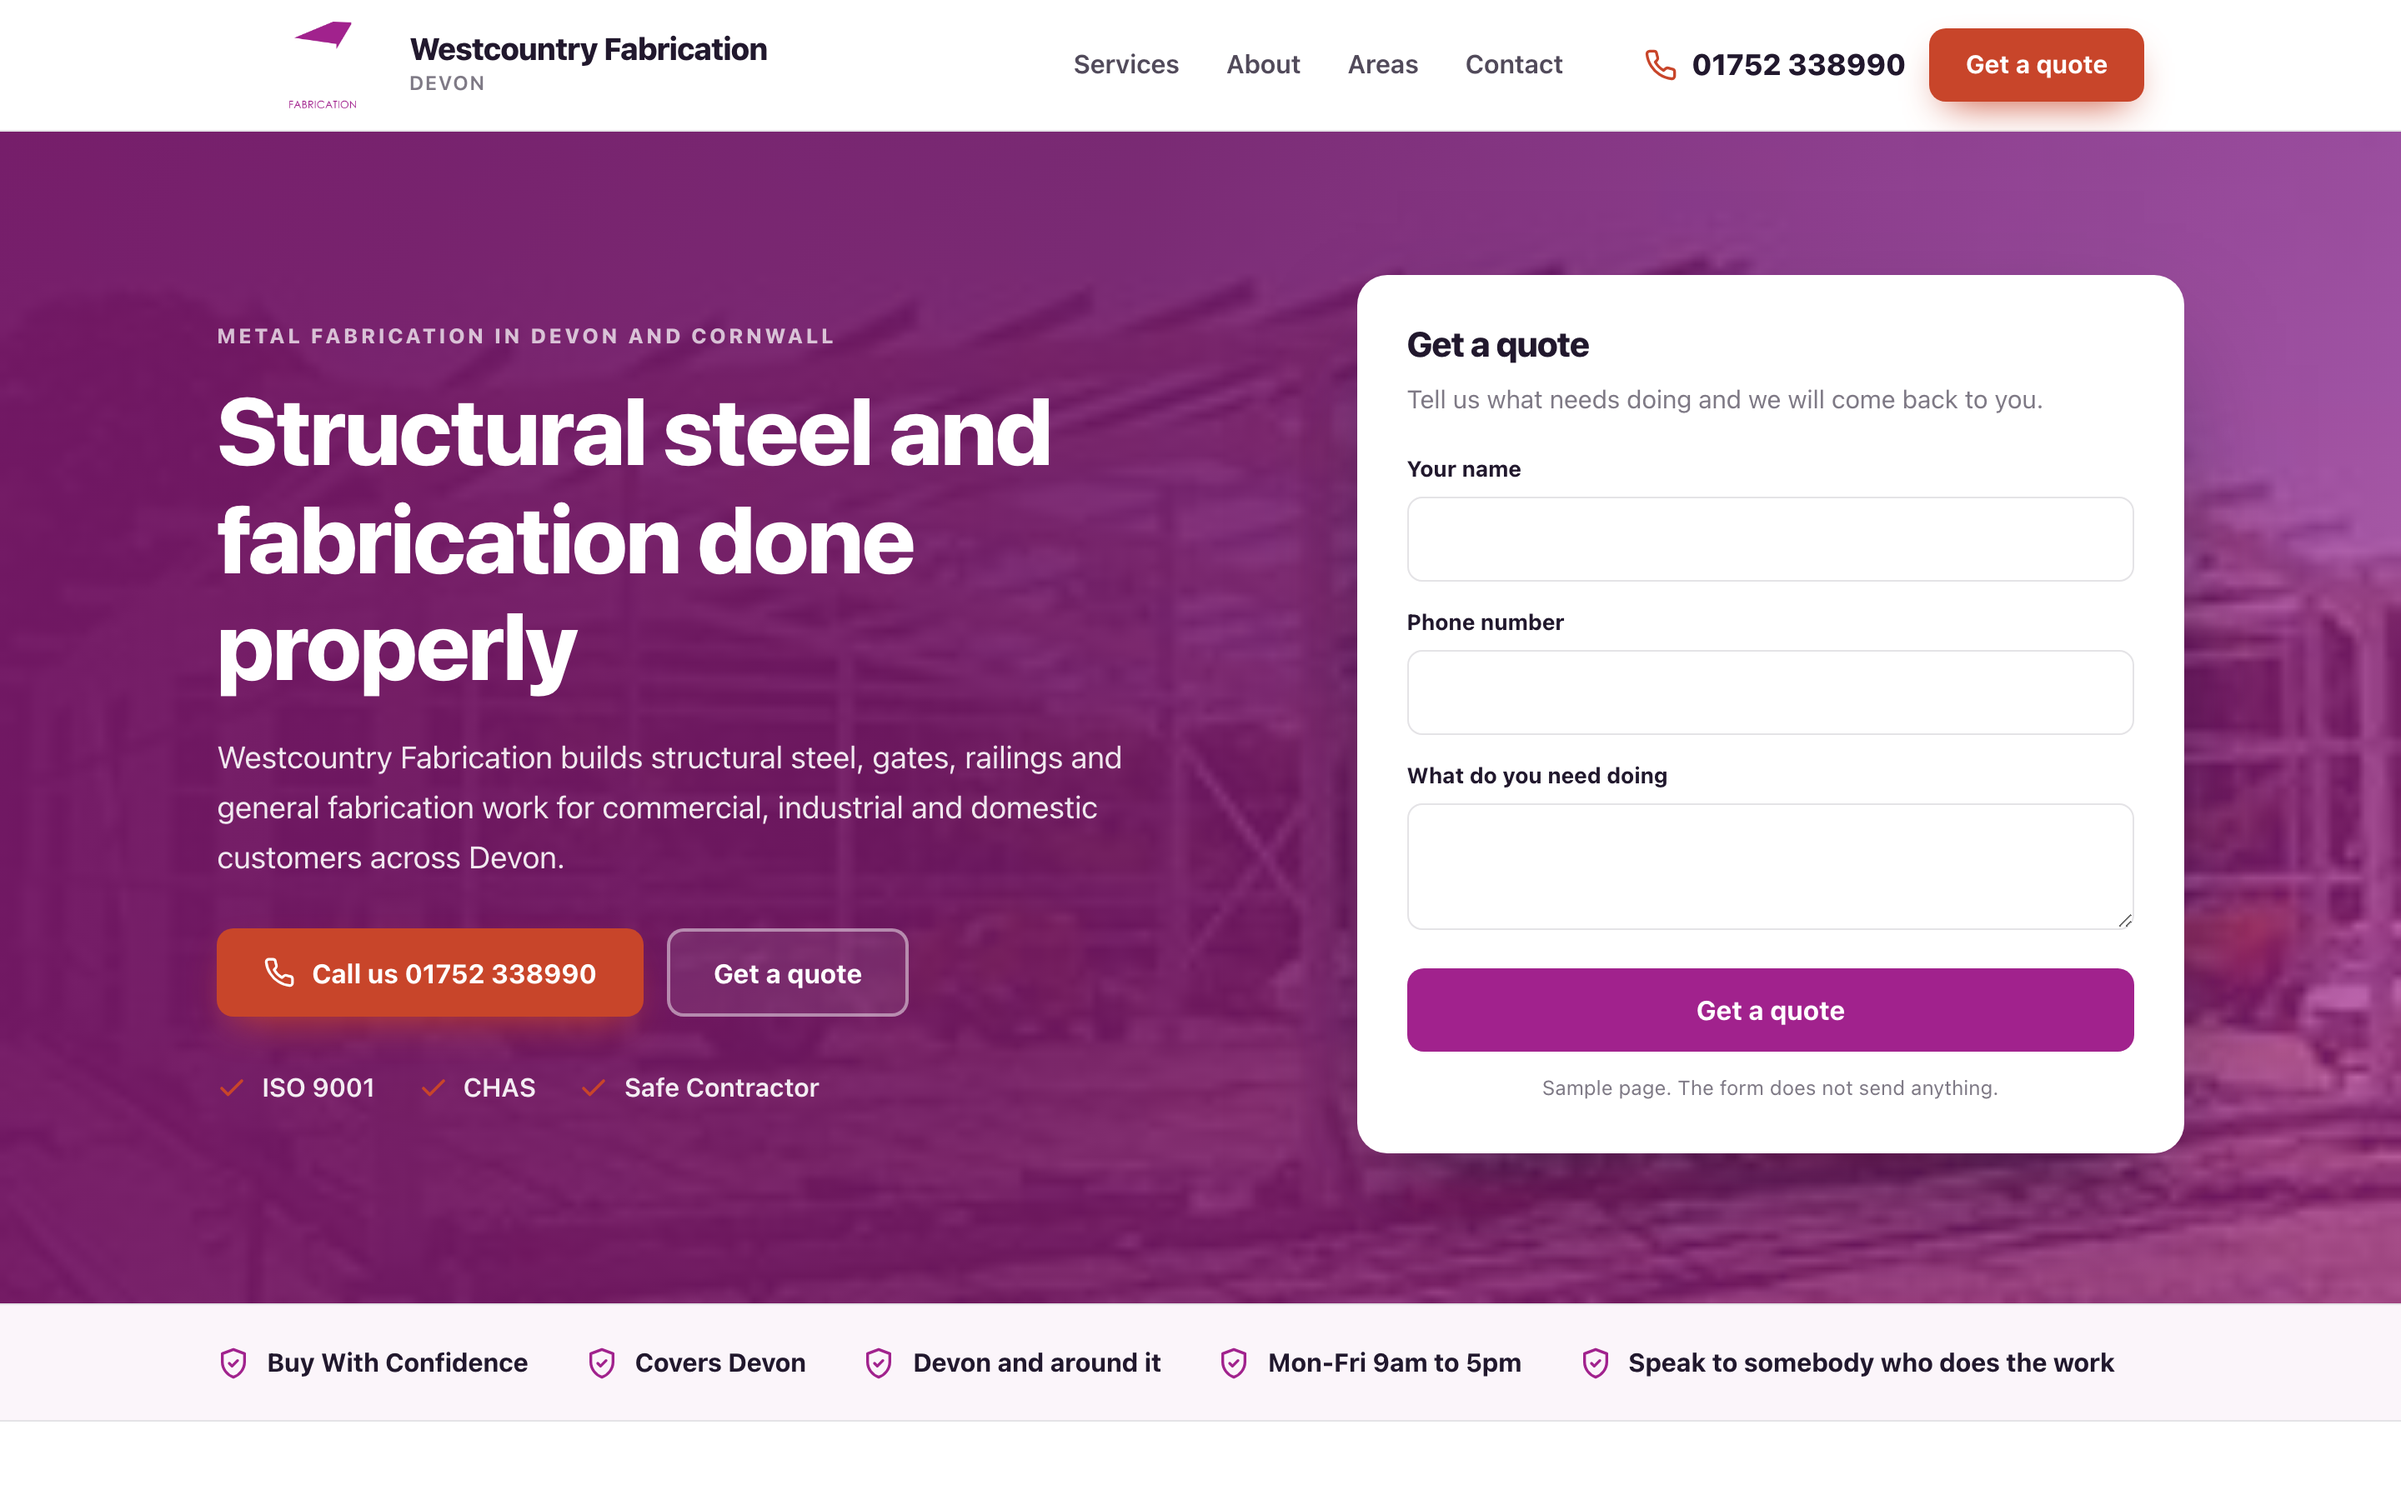
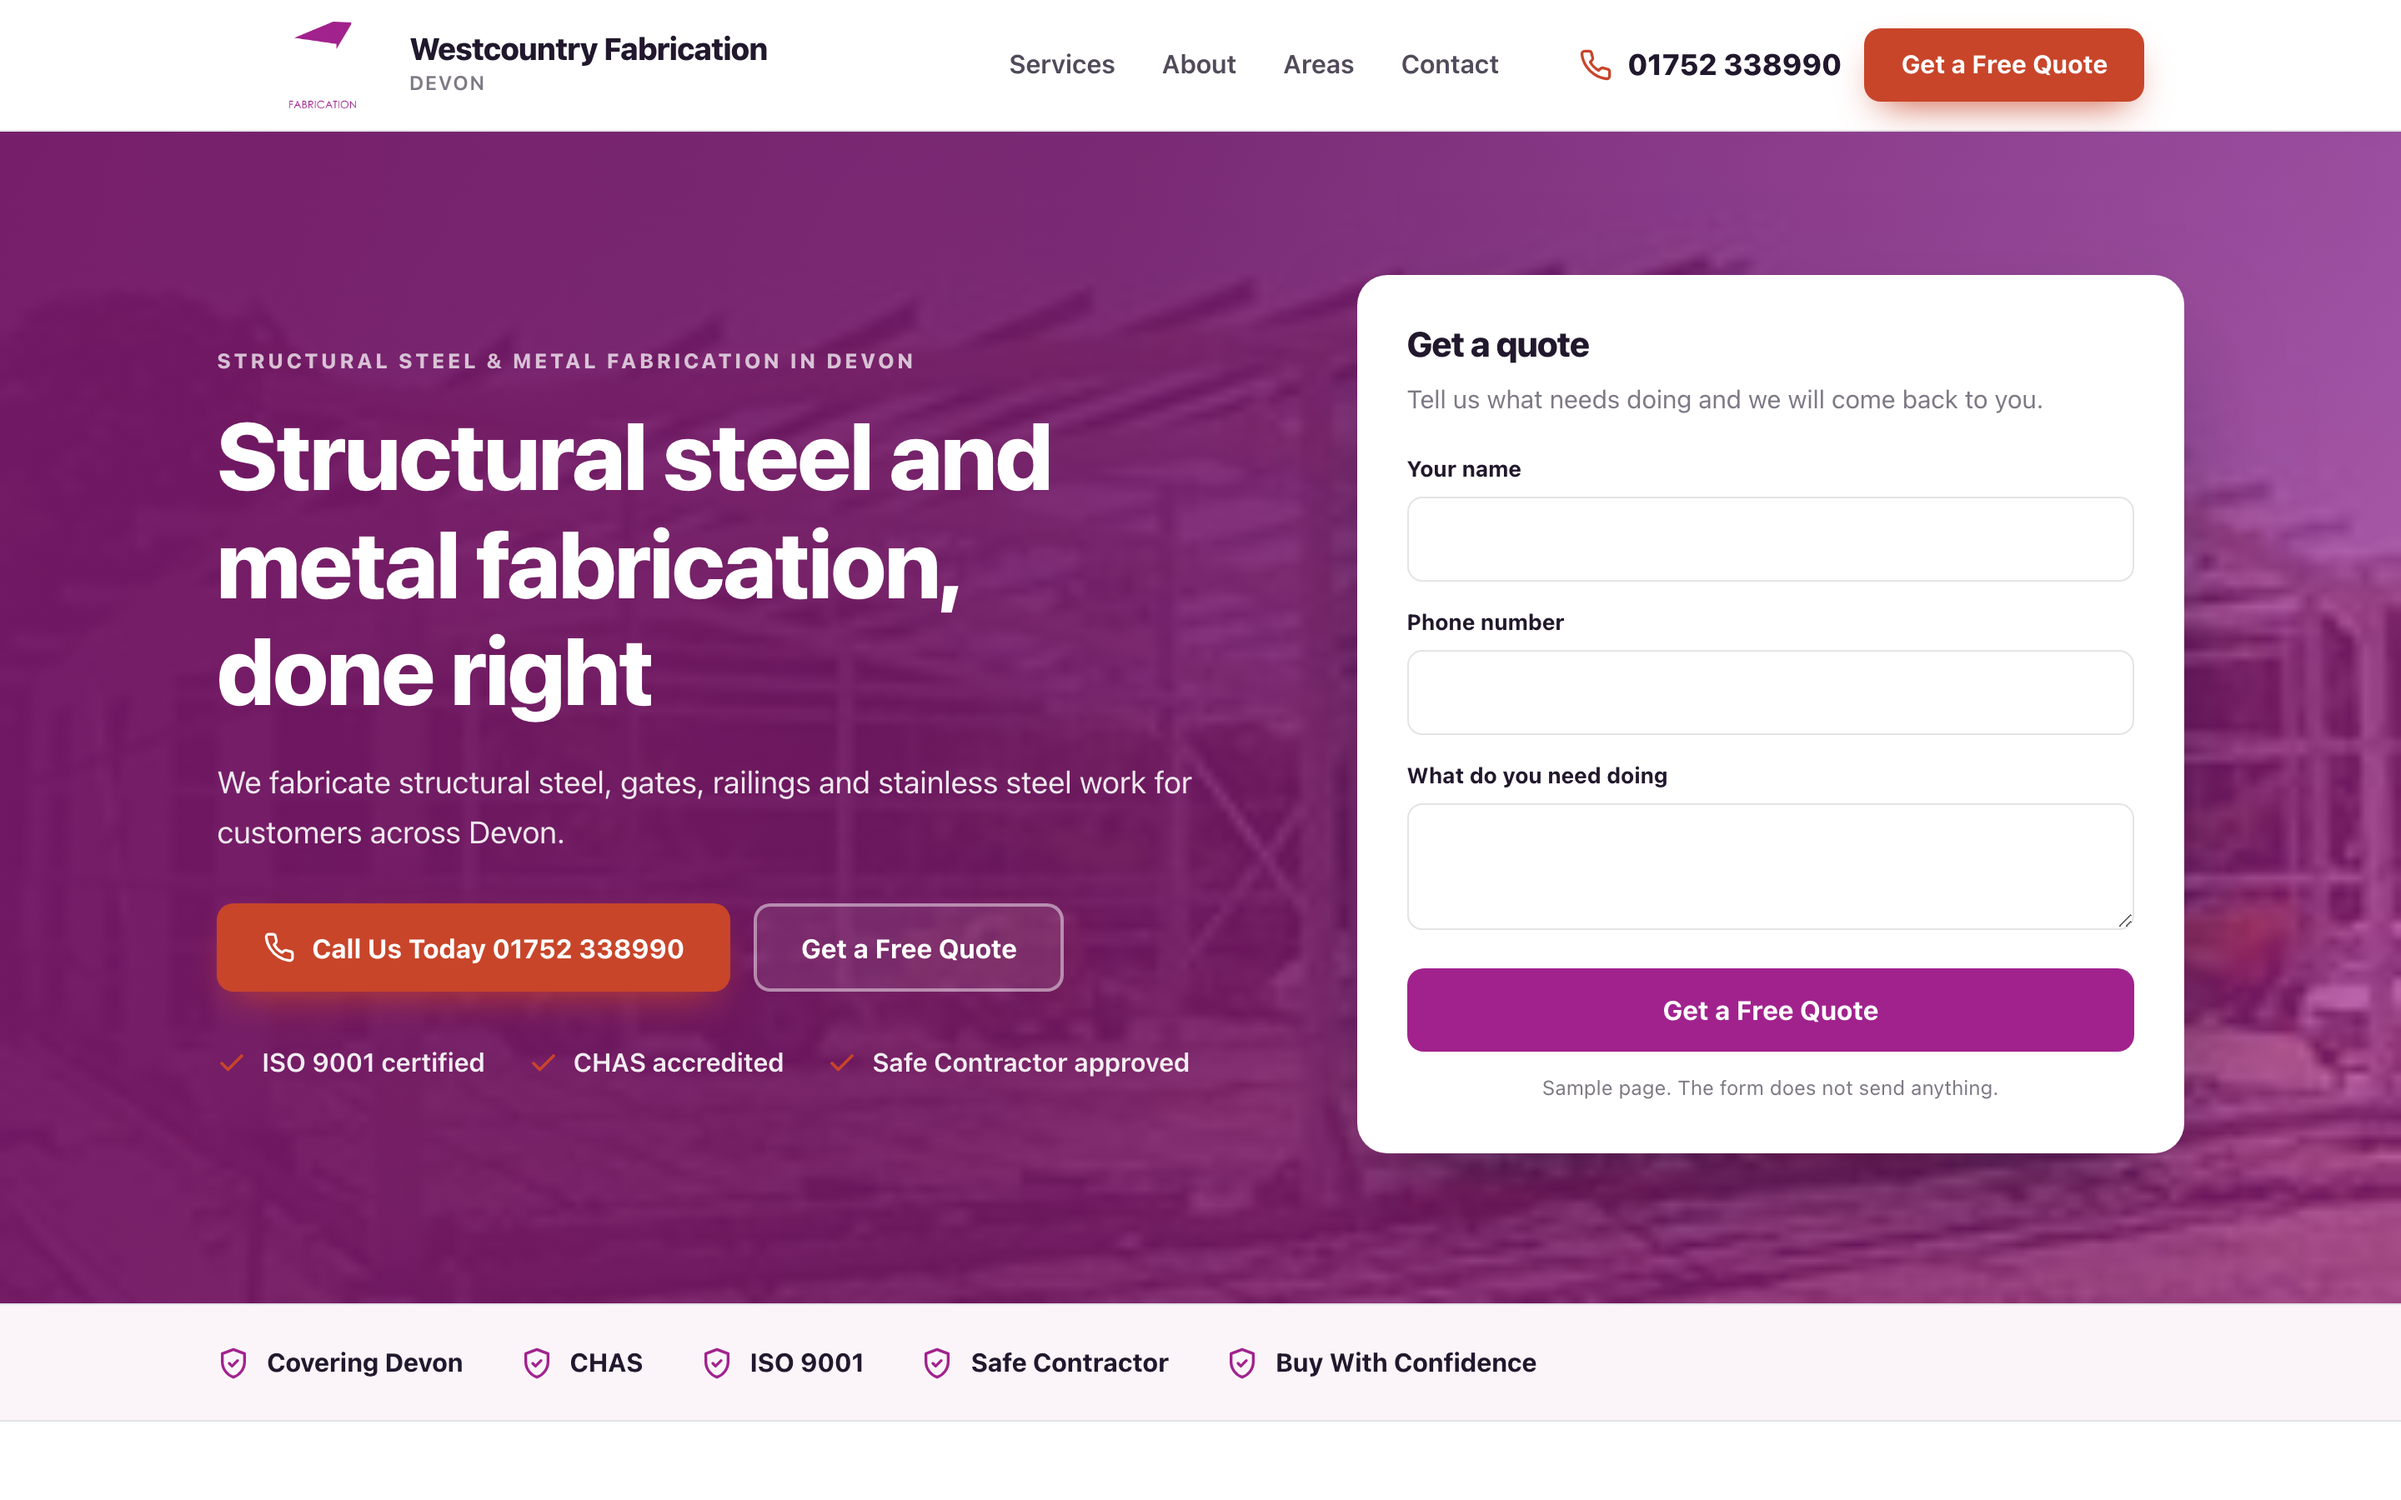
Sample homepage for Westcountry Fabrication

diff --git a/docs/9847171073/index.html b/docs/9847171073/index.html
@@ -6,11 +6,11 @@
 <meta name="robots" content="noindex,nofollow">
 <meta name="aso-build" content="">
 <title>Westcountry Fabrication sample homepage</title>
-<meta name="description" content="Westcountry Fabrication builds structural steel, gates, railings and general fabrication work for commercial, industrial and domestic customers across Devon.">
+<meta name="description" content="We fabricate structural steel, gates, railings and stainless steel work for customers across Devon.">
 <link rel="canonical" href="https://markygff.github.io/aso-mockups/9847171073/">
 <meta property="og:type" content="website">
 <meta property="og:title" content="Westcountry Fabrication sample homepage">
-<meta property="og:description" content="Westcountry Fabrication builds structural steel, gates, railings and general fabrication work for commercial, industrial and domestic customers across Devon.">
+<meta property="og:description" content="We fabricate structural steel, gates, railings and stainless steel work for customers across Devon.">
 <meta property="og:url" content="https://markygff.github.io/aso-mockups/9847171073/">
 <meta property="og:image" content="img/t08.jpg"><style>
 :root{
@@ -130,7 +130,7 @@ p{margin:0}
     </nav>
     <div class="header-cta">
       <a class="tel" href="tel:+441752338990"><svg viewBox="0 0 24 24" fill="none" stroke="currentColor" stroke-width="2" stroke-linecap="round" stroke-linejoin="round" aria-hidden="true"><path d="M22 16.9v3a2 2 0 0 1-2.2 2 19.8 19.8 0 0 1-8.6-3.1 19.5 19.5 0 0 1-6-6 19.8 19.8 0 0 1-3.1-8.7A2 2 0 0 1 4.1 2h3a2 2 0 0 1 2 1.7c.1 1 .4 1.9.7 2.8a2 2 0 0 1-.5 2.1L8.1 9.9a16 16 0 0 0 6 6l1.3-1.2a2 2 0 0 1 2.1-.5c.9.3 1.8.6 2.8.7a2 2 0 0 1 1.7 2z"/></svg><span>01752 338990</span></a>
-      <span class="btn btn-accent">Get a quote</span>
+      <span class="btn btn-accent">Get a Free Quote</span>
     </div>
   </div>
 </header>
@@ -139,15 +139,15 @@ p{margin:0}
   <div class="hero-bg"><img src="img/t08.jpg" alt="Westcountry Fabrication at work" width="1600" height="900"></div>
   <div class="wrap hero-in">
     <div>
-      <p class="eyebrow">Metal fabrication in Devon and Cornwall</p>
-      <h1>Structural steel and fabrication done properly</h1>
-      <p class="hero-sub">Westcountry Fabrication builds structural steel, gates, railings and general fabrication work for commercial, industrial and domestic customers across Devon.</p>
+      <p class="eyebrow">Structural steel &amp; metal fabrication in Devon</p>
+      <h1>Structural steel and metal fabrication, done right</h1>
+      <p class="hero-sub">We fabricate structural steel, gates, railings and stainless steel work for customers across Devon.</p>
       <div class="hero-actions">
-        <span class="btn btn-accent"><svg viewBox="0 0 24 24" fill="none" stroke="currentColor" stroke-width="2" stroke-linecap="round" stroke-linejoin="round" aria-hidden="true"><path d="M22 16.9v3a2 2 0 0 1-2.2 2 19.8 19.8 0 0 1-8.6-3.1 19.5 19.5 0 0 1-6-6 19.8 19.8 0 0 1-3.1-8.7A2 2 0 0 1 4.1 2h3a2 2 0 0 1 2 1.7c.1 1 .4 1.9.7 2.8a2 2 0 0 1-.5 2.1L8.1 9.9a16 16 0 0 0 6 6l1.3-1.2a2 2 0 0 1 2.1-.5c.9.3 1.8.6 2.8.7a2 2 0 0 1 1.7 2z"/></svg>Call us 01752 338990</span>
-        <span class="btn btn-ghost">Get a quote</span>
+        <span class="btn btn-accent"><svg viewBox="0 0 24 24" fill="none" stroke="currentColor" stroke-width="2" stroke-linecap="round" stroke-linejoin="round" aria-hidden="true"><path d="M22 16.9v3a2 2 0 0 1-2.2 2 19.8 19.8 0 0 1-8.6-3.1 19.5 19.5 0 0 1-6-6 19.8 19.8 0 0 1-3.1-8.7A2 2 0 0 1 4.1 2h3a2 2 0 0 1 2 1.7c.1 1 .4 1.9.7 2.8a2 2 0 0 1-.5 2.1L8.1 9.9a16 16 0 0 0 6 6l1.3-1.2a2 2 0 0 1 2.1-.5c.9.3 1.8.6 2.8.7a2 2 0 0 1 1.7 2z"/></svg>Call Us Today 01752 338990</span>
+        <span class="btn btn-ghost">Get a Free Quote</span>
       </div>
       <ul class="hero-bullets">
-<li><svg viewBox="0 0 24 24" fill="none" stroke="currentColor" stroke-width="2.4" stroke-linecap="round" stroke-linejoin="round" aria-hidden="true"><path d="M20 6 9 17l-5-5"/></svg><span>ISO 9001</span></li><li><svg viewBox="0 0 24 24" fill="none" stroke="currentColor" stroke-width="2.4" stroke-linecap="round" stroke-linejoin="round" aria-hidden="true"><path d="M20 6 9 17l-5-5"/></svg><span>CHAS</span></li><li><svg viewBox="0 0 24 24" fill="none" stroke="currentColor" stroke-width="2.4" stroke-linecap="round" stroke-linejoin="round" aria-hidden="true"><path d="M20 6 9 17l-5-5"/></svg><span>Safe Contractor</span></li>      </ul>
+<li><svg viewBox="0 0 24 24" fill="none" stroke="currentColor" stroke-width="2.4" stroke-linecap="round" stroke-linejoin="round" aria-hidden="true"><path d="M20 6 9 17l-5-5"/></svg><span>ISO 9001 certified</span></li><li><svg viewBox="0 0 24 24" fill="none" stroke="currentColor" stroke-width="2.4" stroke-linecap="round" stroke-linejoin="round" aria-hidden="true"><path d="M20 6 9 17l-5-5"/></svg><span>CHAS accredited</span></li><li><svg viewBox="0 0 24 24" fill="none" stroke="currentColor" stroke-width="2.4" stroke-linecap="round" stroke-linejoin="round" aria-hidden="true"><path d="M20 6 9 17l-5-5"/></svg><span>Safe Contractor approved</span></li>      </ul>
     </div>
     <div class="quote-card">
       <h3>Get a quote</h3>
@@ -155,7 +155,7 @@ p{margin:0}
       <div class="field"><label>Your name</label><input type="text" disabled></div>
       <div class="field"><label>Phone number</label><input type="tel" disabled></div>
       <div class="field"><label>What do you need doing</label><textarea disabled></textarea></div>
-      <span class="btn btn-primary">Get a quote</span>
+      <span class="btn btn-primary">Get a Free Quote</span>
       <p class="sample-note">Sample page. The form does not send anything.</p>
     </div>
   </div>
@@ -163,11 +163,11 @@ p{margin:0}
 
 <div class="strip">
   <div class="wrap strip-in">
+    <div class="strip-item"><svg viewBox="0 0 24 24" fill="none" stroke="currentColor" stroke-width="2" stroke-linecap="round" stroke-linejoin="round" aria-hidden="true"><path d="M12 2 4 5v6c0 5 3.4 9.4 8 11 4.6-1.6 8-6 8-11V5z"/><path d="m9 12 2 2 4-4"/></svg><span>Covering Devon</span></div>
+    <div class="strip-item"><svg viewBox="0 0 24 24" fill="none" stroke="currentColor" stroke-width="2" stroke-linecap="round" stroke-linejoin="round" aria-hidden="true"><path d="M12 2 4 5v6c0 5 3.4 9.4 8 11 4.6-1.6 8-6 8-11V5z"/><path d="m9 12 2 2 4-4"/></svg><span>CHAS</span></div>
+    <div class="strip-item"><svg viewBox="0 0 24 24" fill="none" stroke="currentColor" stroke-width="2" stroke-linecap="round" stroke-linejoin="round" aria-hidden="true"><path d="M12 2 4 5v6c0 5 3.4 9.4 8 11 4.6-1.6 8-6 8-11V5z"/><path d="m9 12 2 2 4-4"/></svg><span>ISO 9001</span></div>
+    <div class="strip-item"><svg viewBox="0 0 24 24" fill="none" stroke="currentColor" stroke-width="2" stroke-linecap="round" stroke-linejoin="round" aria-hidden="true"><path d="M12 2 4 5v6c0 5 3.4 9.4 8 11 4.6-1.6 8-6 8-11V5z"/><path d="m9 12 2 2 4-4"/></svg><span>Safe Contractor</span></div>
     <div class="strip-item"><svg viewBox="0 0 24 24" fill="none" stroke="currentColor" stroke-width="2" stroke-linecap="round" stroke-linejoin="round" aria-hidden="true"><path d="M12 2 4 5v6c0 5 3.4 9.4 8 11 4.6-1.6 8-6 8-11V5z"/><path d="m9 12 2 2 4-4"/></svg><span>Buy With Confidence</span></div>
-    <div class="strip-item"><svg viewBox="0 0 24 24" fill="none" stroke="currentColor" stroke-width="2" stroke-linecap="round" stroke-linejoin="round" aria-hidden="true"><path d="M12 2 4 5v6c0 5 3.4 9.4 8 11 4.6-1.6 8-6 8-11V5z"/><path d="m9 12 2 2 4-4"/></svg><span>Covers Devon</span></div>
-    <div class="strip-item"><svg viewBox="0 0 24 24" fill="none" stroke="currentColor" stroke-width="2" stroke-linecap="round" stroke-linejoin="round" aria-hidden="true"><path d="M12 2 4 5v6c0 5 3.4 9.4 8 11 4.6-1.6 8-6 8-11V5z"/><path d="m9 12 2 2 4-4"/></svg><span>Devon and around it</span></div>
-    <div class="strip-item"><svg viewBox="0 0 24 24" fill="none" stroke="currentColor" stroke-width="2" stroke-linecap="round" stroke-linejoin="round" aria-hidden="true"><path d="M12 2 4 5v6c0 5 3.4 9.4 8 11 4.6-1.6 8-6 8-11V5z"/><path d="m9 12 2 2 4-4"/></svg><span>Mon-Fri 9am to 5pm</span></div>
-    <div class="strip-item"><svg viewBox="0 0 24 24" fill="none" stroke="currentColor" stroke-width="2" stroke-linecap="round" stroke-linejoin="round" aria-hidden="true"><path d="M12 2 4 5v6c0 5 3.4 9.4 8 11 4.6-1.6 8-6 8-11V5z"/><path d="m9 12 2 2 4-4"/></svg><span>Speak to somebody who does the work</span></div>
   </div>
 </div>
 
@@ -176,28 +176,28 @@ p{margin:0}
     <div class="services-head">
       <p class="eyebrow">What we do</p>
       <h2>Westcountry Fabrication, Devon</h2>
-      <p>Westcountry Fabrication builds structural steel, gates, railings and general fabrication work for commercial, industrial and domestic customers across Devon.</p>
+      <p>We fabricate structural steel, gates, railings and stainless steel work for customers across Devon.</p>
     </div>
     <div class="grid">
       <article class="card">
         <div class="icon"><svg viewBox="0 0 24 24" fill="none" stroke="currentColor" stroke-width="2" stroke-linecap="round" stroke-linejoin="round" aria-hidden="true"><path d="M14.7 6.3a4 4 0 0 0 5.3 5.3l-8 8a3 3 0 0 1-4.2-4.2z"/><path d="m14.7 6.3 3-3"/></svg></div>
         <h3>Structural steel work</h3>
-        <p>We fabricate structural steel for commercial and industrial jobs.</p>
+        <p>Steel frames and structures built to your spec.</p>
       </article>
       <article class="card">
         <div class="icon"><svg viewBox="0 0 24 24" fill="none" stroke="currentColor" stroke-width="2" stroke-linecap="round" stroke-linejoin="round" aria-hidden="true"><path d="M13 2 4 14h7l-1 8 9-12h-7z"/></svg></div>
         <h3>Gates, railings &amp; ornamental ironwork</h3>
-        <p>Gates, railings and ironwork made to order.</p>
+        <p>Gates, railings and ironwork made to measure.</p>
       </article>
       <article class="card">
         <div class="icon"><svg viewBox="0 0 24 24" fill="none" stroke="currentColor" stroke-width="2" stroke-linecap="round" stroke-linejoin="round" aria-hidden="true"><path d="M3 10.5 12 3l9 7.5"/><path d="M5 9.5V21h14V9.5"/><path d="M10 21v-6h4v6"/></svg></div>
-        <h3>Portal frame buildings &amp; cladding work</h3>
-        <p>Portal frame buildings and cladding, built and fitted.</p>
+        <h3>Stainless Steel &amp; Aluminium Fabrication</h3>
+        <p>Stainless steel and aluminium work for any project.</p>
       </article>
       <article class="card">
         <div class="icon"><svg viewBox="0 0 24 24" fill="none" stroke="currentColor" stroke-width="2" stroke-linecap="round" stroke-linejoin="round" aria-hidden="true"><path d="M4 20 15 9"/><path d="m14 4 6 6-3 3-6-6z"/><path d="m3 15 6 6"/></svg></div>
-        <h3>Stainless Steel &amp; Aluminium Fabrication</h3>
-        <p>Stainless steel and aluminium fabrication for any project.</p>
+        <h3>Onsite Welding &amp; Steel Erection</h3>
+        <p>We weld and erect steel on site, wherever you need it.</p>
       </article>
     </div>
   </div>
